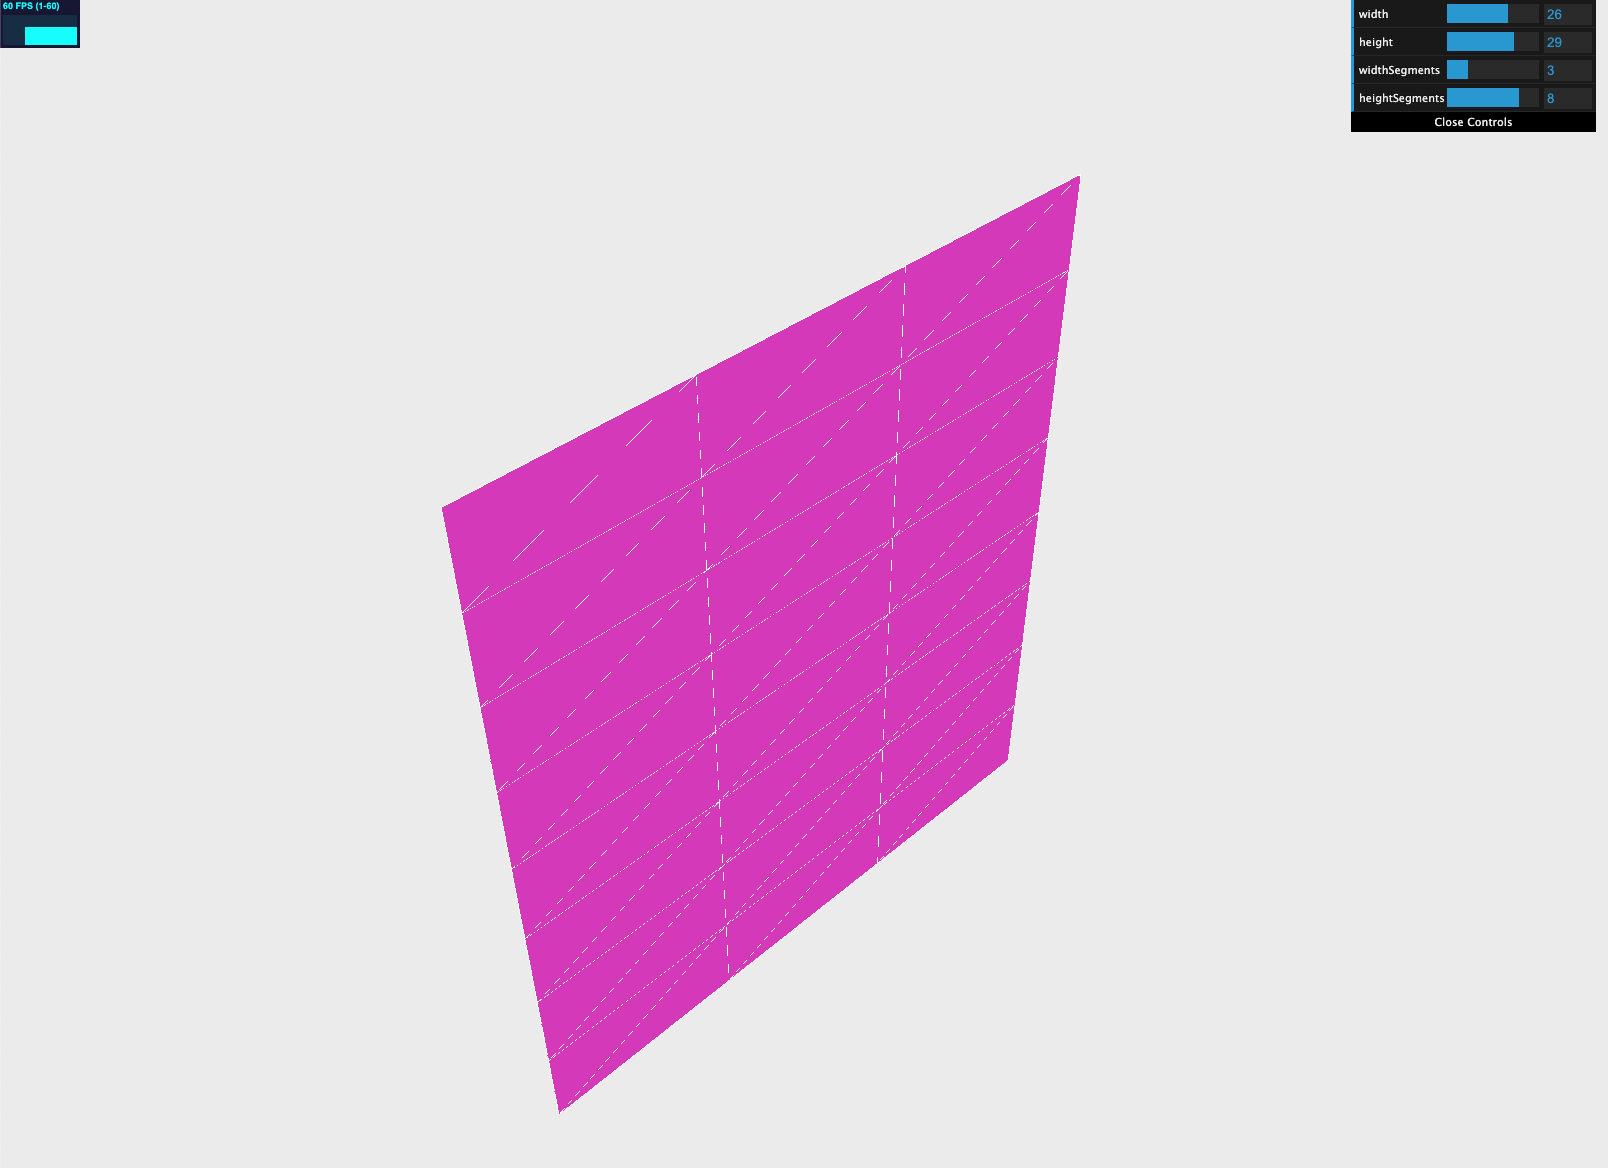
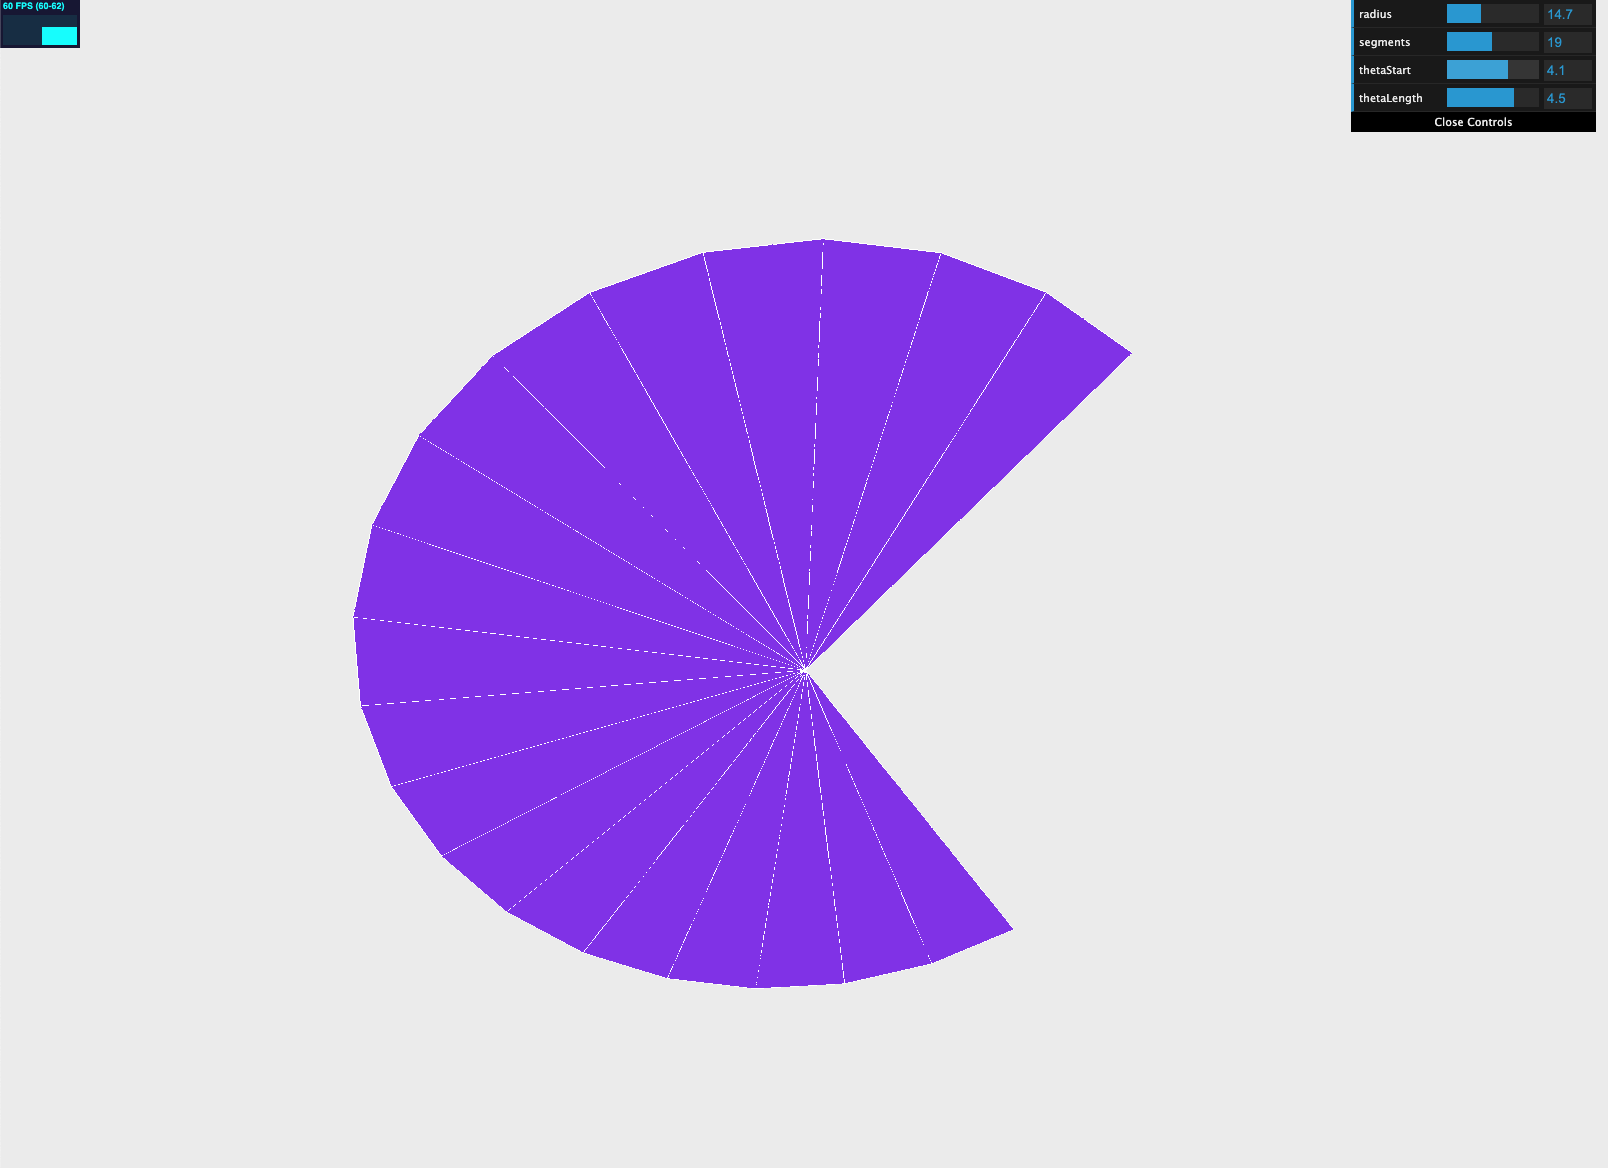
5-1-1-2 complete

Changed region(s): [[0.2177, 0.1541, 0.7152, 0.9555], [0.8396, 0.0, 0.9639, 0.0925], [0.0, 0.0, 0.0311, 0.0308]]

diff --git a/Learning Three.js, 2nd Edition/chapter-05/5-1-1-2.basic-2d-geometries-circle/src/index.js b/Learning Three.js, 2nd Edition/chapter-05/5-1-1-2.basic-2d-geometries-circle/src/index.js
@@ -11,9 +11,9 @@ const scene = new THREE.Scene();
 
 // [Camera]カメラの作成
 let camera = new THREE.PerspectiveCamera(45, window.innerWidth / window.innerHeight, 0.1, 1000);
-camera.position.x = -30;
-camera.position.y = 40;
-camera.position.z = 30;
+camera.position.x = -20;
+camera.position.y = 30;
+camera.position.z = 40;
 camera.lookAt(scene.position);
 scene.add(camera);
 
@@ -30,30 +30,29 @@ spotLight.position.set(-40, 60, -10);
 spotLight.castShadow = true;
 scene.add(spotLight);
 
-// [Mesh] plane
-let plane = createMesh(new THREE.PlaneGeometry(10, 14, 4, 4));
-scene.add(plane);
+// [Mesh] circle
+let circle = createMesh(new THREE.CircleGeometry(4, 10, 0.3 * Math.PI * 2, 0.3 * Math.PI * 2));
+scene.add(circle);
 
 // [Gui]Gui
 const controls = new (function () {
-  this.width = plane.children[0].geometry.parameters.width;
-  this.height = plane.children[0].geometry.parameters.width;
-
-  this.widthSegments = plane.children[0].geometry.parameters.widthSegments;
-  this.heightSegments = plane.children[0].geometry.parameters.heightSegments;
+  this.radius = 4;
+  this.segments = 10;
+  this.thetaStart = 0.3 * Math.PI * 2;
+  this.thetaLength = 0.3 * Math.PI * 2;
 
   this.redraw = function () {
-    scene.remove(plane);
-    plane = createMesh(new THREE.PlaneGeometry(controls.width, controls.height, Math.round(controls.widthSegments), Math.round(controls.heightSegments)));
-    scene.add(plane);
+    scene.remove(circle);
+    circle = createMesh(new THREE.CircleGeometry(controls.radius, controls.segments, controls.thetaStart, controls.thetaLength));
+    scene.add(circle);
   };
 })();
 
 const gui = new dat.GUI();
-gui.add(controls, "width", 0, 40).onChange(controls.redraw);
-gui.add(controls, "height", 0, 40).onChange(controls.redraw);
-gui.add(controls, "widthSegments", 1, 10, 1).onChange(controls.redraw);
-gui.add(controls, "heightSegments", 1, 10, 1).onChange(controls.redraw);
+gui.add(controls, "radius", 0, 40).onChange(controls.redraw);
+gui.add(controls, "segments", 0, 40).onChange(controls.redraw);
+gui.add(controls, "thetaStart", 0, 2 * Math.PI).onChange(controls.redraw);
+gui.add(controls, "thetaLength", 0, 2 * Math.PI).onChange(controls.redraw);
 
 let step = 0;
 
@@ -69,8 +68,8 @@ function createMesh(geometry) {
   meshMaterial.side = THREE.DoubleSide;
   const wireFrameMaterial = new THREE.MeshBasicMaterial();
   wireFrameMaterial.wireframe = true;
-  const plane = SceneUtils.createMultiMaterialObject(geometry, [meshMaterial, wireFrameMaterial]);
-  return plane;
+  const circle = SceneUtils.createMultiMaterialObject(geometry, [meshMaterial, wireFrameMaterial]);
+  return circle;
 }
 
 /**
@@ -81,7 +80,7 @@ function renderScene() {
 
   // mesh animation
   step += 0.01;
-  plane.rotation.y = step;
+  circle.rotation.y = step;
 
   // requestAnimationFrameを利用してレンダリング（レンダリングタイミングをブラウザに任せる）
   requestAnimationFrame(renderScene);
